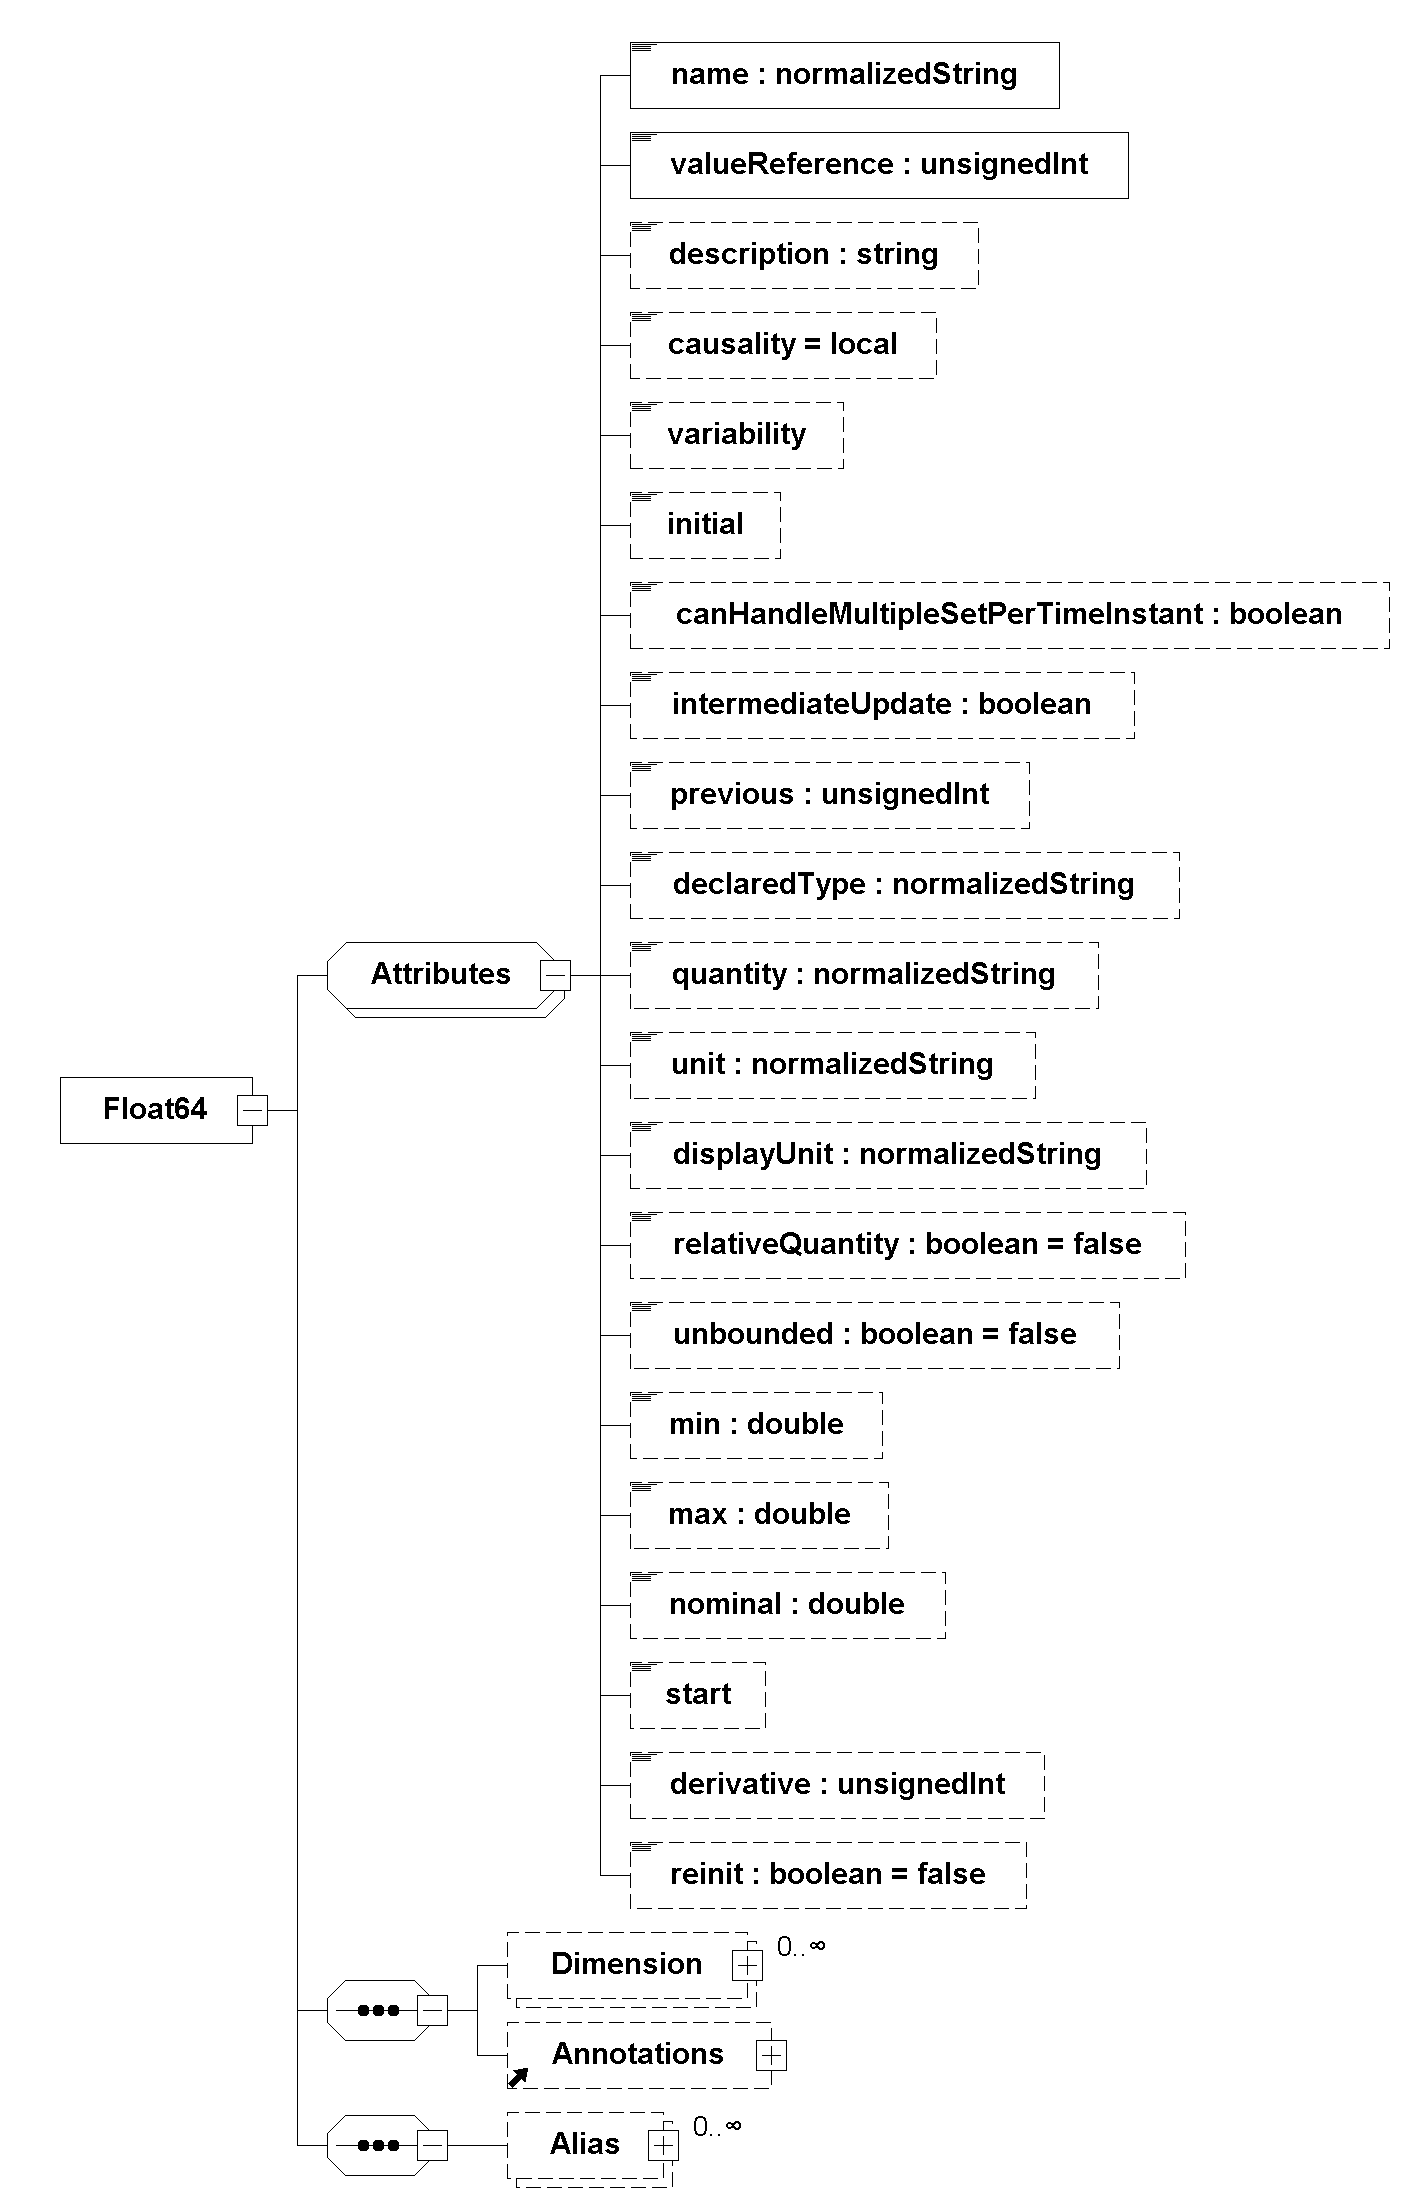
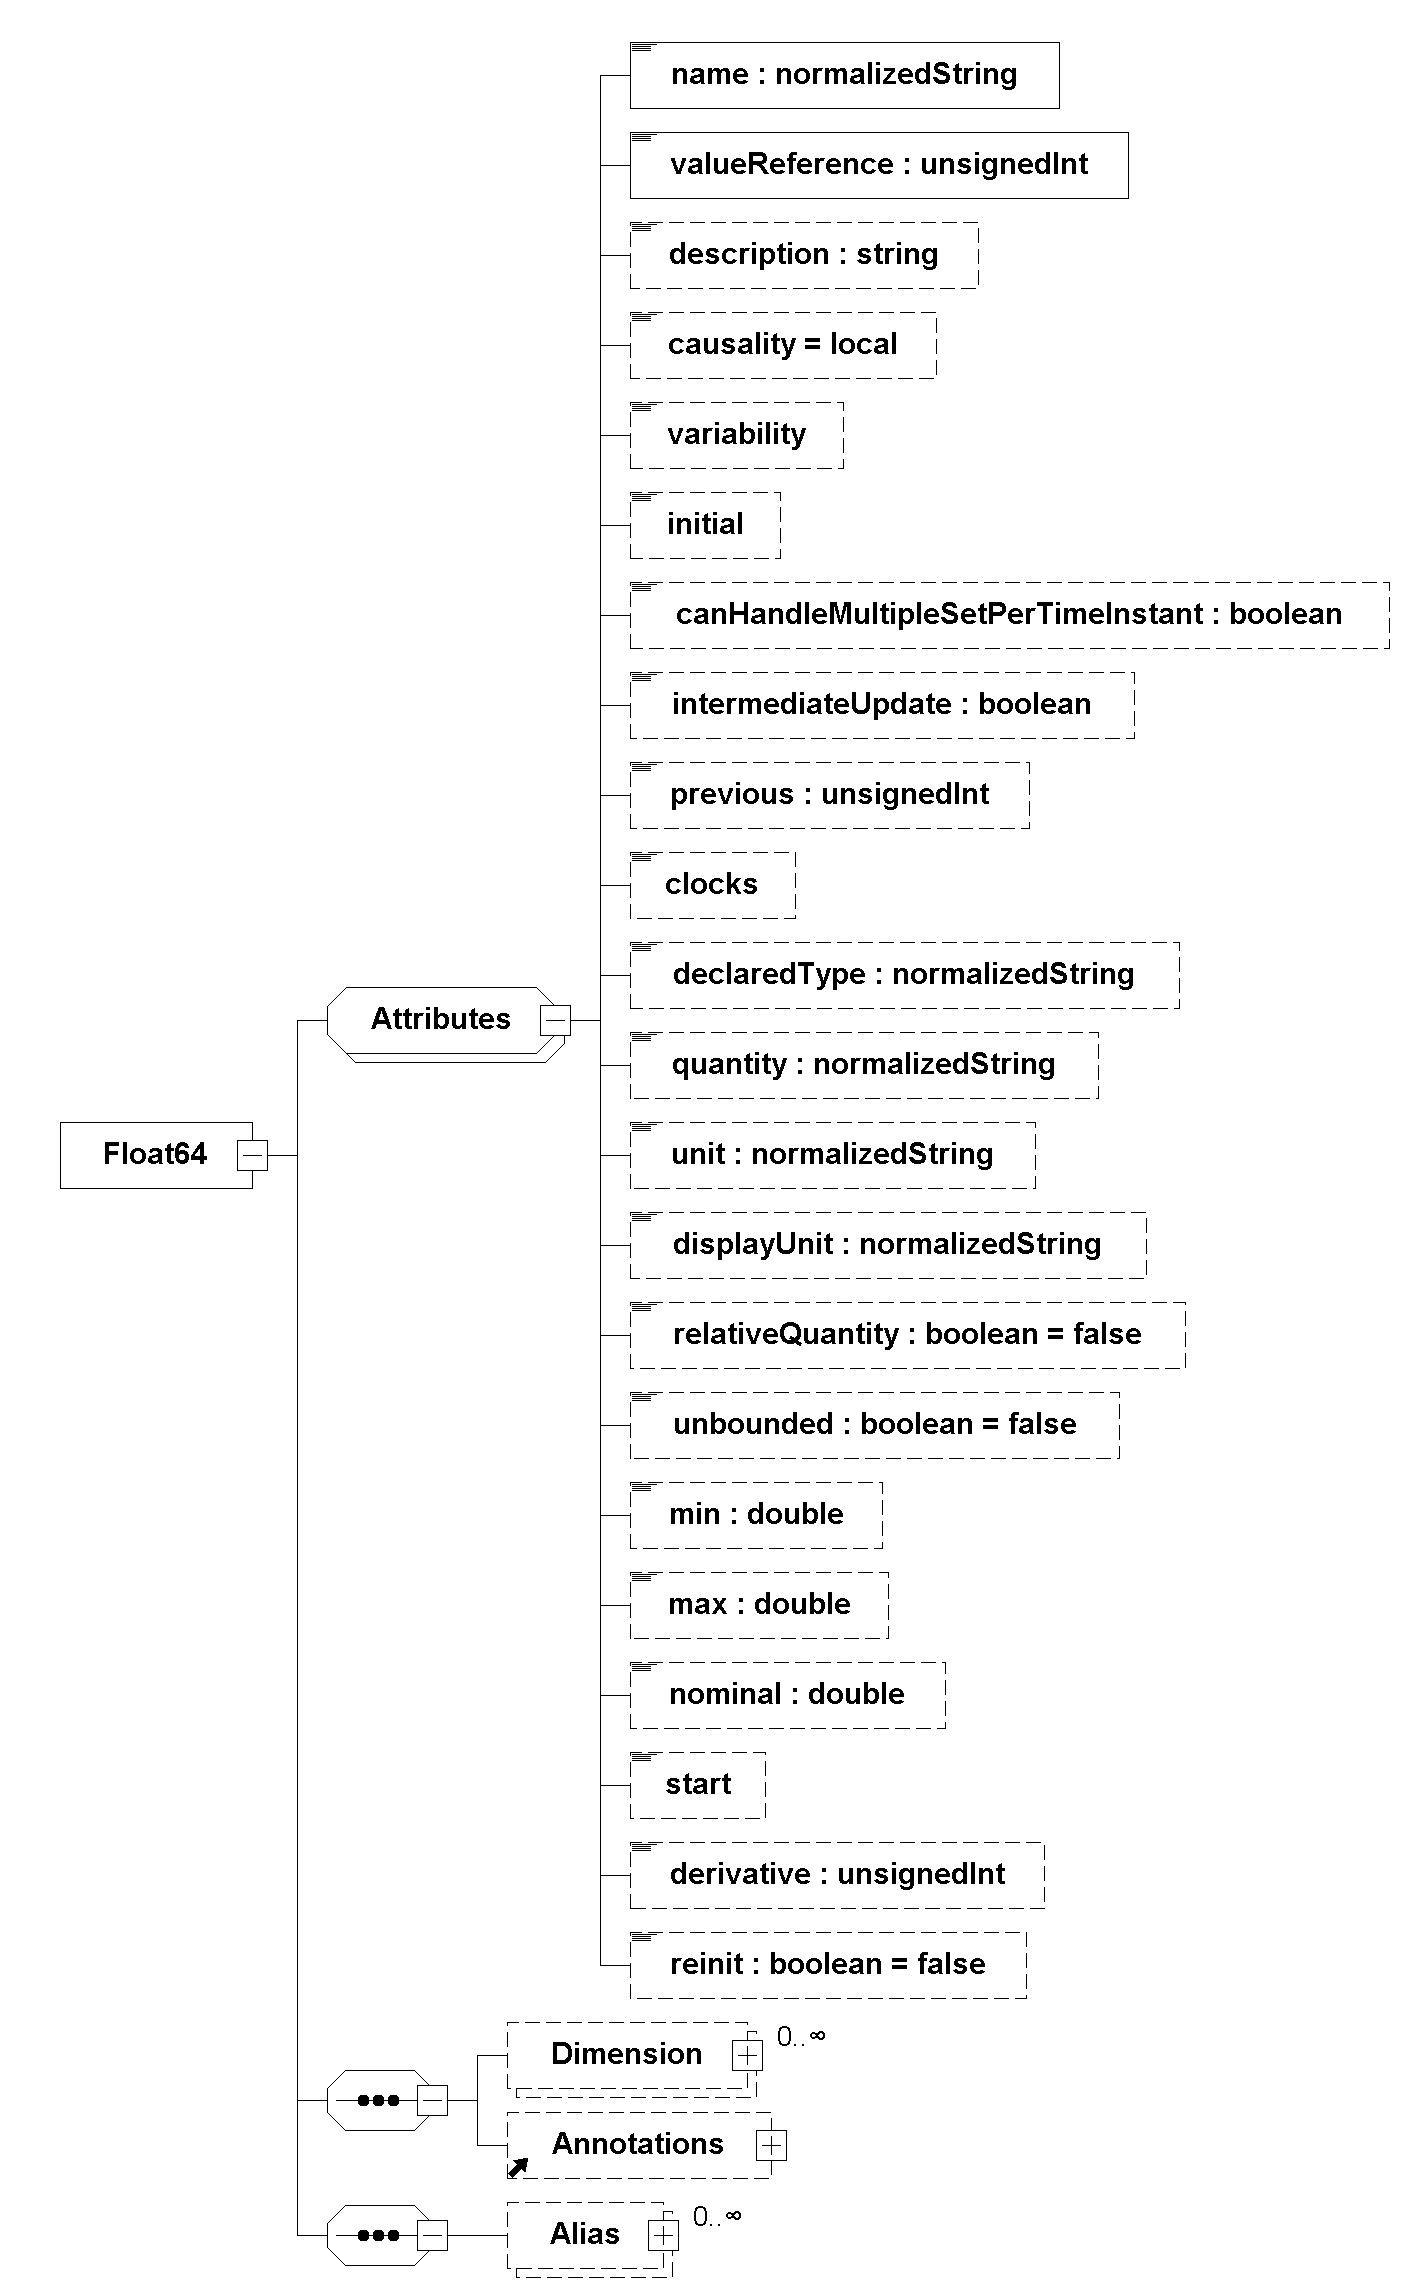
Update generated specification from fmi-standard (1ed2dfc)

diff --git a/docs/3.0-dev/index.html b/docs/3.0-dev/index.html
@@ -587,8 +587,8 @@ document.addEventListener('keydown', (event) => {
 <div id="header">
 <h1>Functional Mock-Up Interface Specification</h1>
 <div class="details">
-<span id="revnumber">version c91d4d4,</span>
-<span id="revdate">2021-03-30</span>
+<span id="revnumber">version 1ed2dfc,</span>
+<span id="revdate">2021-04-01</span>
 </div>
 <div id="toc" class="toc2">
 <div id="toctitle">Contents</div>
@@ -2975,7 +2975,7 @@ However, <a href="#get-and-set-variable-values"><code>fmi3Get{VariableType}</cod
 Before the first Clock tick, clocked variables have their initial value.</p>
 </div>
 <div class="paragraph">
-<p>The association between <a href="#clocked-variable">clocked variables</a> and their <a href="#Clock">Clocks</a> is defined by the <a href="#model-dependencies">model dependency</a> elements <a href="#ClockElement"><code>&lt;Clock&gt;</code></a>.
+<p>The association between <a href="#clocked-variable">clocked variables</a> and their <a href="#Clock">Clocks</a> is defined by the attribute <a href="#clocks"><code>clocks</code></a>.
 <a href="#clocked-variable">Clocked variables</a> can depend on multiple Clocks.
 <em>[For example, a global counter could be incremented by multiple tasks, each controlled by a different Clock.]</em></p>
 </div>
@@ -6610,12 +6610,21 @@ The default value of this attribute is <code>false</code>.</p>
 <td class="tableblock halign-left valign-top"><p class="tableblock"><code>previous</code></p></td>
 <td class="tableblock halign-left valign-top"><div class="content"><div id="previous" class="paragraph">
 <p>If present, this variable is a <a href="#ClockedState"><code>&lt;ClockedState&gt;</code></a> and this attribute is a value reference to the variable with the previous value.
-Only clocked variables (they are listed in at least one of the <a href="#clockedVariables"><code>clockedVariables</code></a> lists) may have the <a href="#previous"><code>previous</code></a> attribute.
+Only clocked variables (i.e. variables with the attribute <a href="#clocks"><code>clocks</code></a>) may have the <a href="#previous"><code>previous</code></a> attribute.
 Only variables with <a href="#variability"><code>variability == discrete</code></a> may have a previous value.</p>
 </div>
 <div class="paragraph">
 <p><em>[For example, if <code>previous == 3</code> for variable <code>8</code>, then variable <code>3</code> is the previous value of variable <code>8</code>. See also <a href="#fmi3UpdateDiscreteStates"><code>fmi3UpdateDiscreteStates</code></a>.</em>
 <em>Note: This is reverse compared to the <a href="#derivative"><code>derivative</code></a> attribute.]</em></p>
+</div></div></td>
+</tr>
+<tr>
+<td class="tableblock halign-left valign-top"><p class="tableblock"><code>clocks</code></p></td>
+<td class="tableblock halign-left valign-top"><div class="content"><div id="clocks" class="paragraph">
+<p>If present, this variable is clocked.
+The value of <a href="#clocks"><code>clocks</code></a> is a list of value references of <a href="#Clock">Clock</a> variables this variable depends on.
+Only discrete variables can have this attribute.
+<em>[More rigorous importers requiring a variable to be dependent on a single clock can reject FMUs violating this restriction.]</em></p>
 </div></div></td>
 </tr>
 </tbody>
@@ -7423,8 +7432,8 @@ The functional dependency is defined as (dependencies of variables that are fixe
 <tr>
 <td class="tableblock halign-left valign-top"><p class="tableblock"><code>ClockedState</code></p></td>
 <td class="tableblock halign-left valign-top"><p class="tableblock"><a id="ClockedState"></a>
-A <a href="#ClockedState"><code>&lt;ClockedState&gt;</code></a> is part of the discrete state of a model partition and represented by a <a href="#ClockElement">clocked</a> variable.
-To which clock or clocks it belongs is described in <a href="#ClockElement"><code>&lt;Clock&gt;</code></a>.
+A <a href="#ClockedState"><code>&lt;ClockedState&gt;</code></a> is part of the discrete state of a model partition and represented by a clocked variable.
+To which Clock or Clocks it belongs is described by the attribute <a href="#clocks"><code>clocks</code></a>.
 Each <a href="#ClockedState"><code>&lt;ClockedState&gt;</code></a> must have the attribute <a href="#previous"><code>previous</code></a> to represent the previous value of this <a href="#ClockedState"><code>&lt;ClockedState&gt;</code></a>.
 All <a href="#ClockedState">clocked states</a> must have <a href="#variability"><code>variability == discrete</code></a>.</p></td>
 </tr>
@@ -7458,21 +7467,13 @@ Ordered list of all event indicators, in other words, a list of value references
 <p class="tableblock">For Co-Simulation, elements <a href="#EventIndicator"><code>&lt;EventIndicator&gt;</code></a> are ignored.
 <em>[If an FMU supports both Model Exchange and Co-Simulation, then the <a href="#EventIndicator"><code>&lt;EventIndicator&gt;</code></a> elements might be present, since it is needed for Model Exchange.]</em></p></td>
 </tr>
-<tr>
-<td class="tableblock halign-left valign-top"><p class="tableblock"><code>Clock</code></p></td>
-<td class="tableblock halign-left valign-top"><p class="tableblock"><a id="ClockElement"></a>
-List of all clocks and their clocked variables.
-All variables referenced by these lists must have <a href="#variability"><code>variability == discrete</code></a>.
-A clocked variable my depend on multiple clocks and may therefore be listed in multiple <a href="#ClockElement"><code>&lt;Clock&gt;</code></a> elements.
-<em>[More rigorous importers requiring a variable to be dependent on a single clock can reject FMUs violating this restriction.]</em></p></td>
-</tr>
 </tbody>
 </table>
 <div class="paragraph">
-<p>Elements <a href="#Output"><code>&lt;Output&gt;</code></a>, <a href="#ContinuousStateDerivative"><code>&lt;ContinuousStateDerivative&gt;</code></a>, <a href="#ClockedState"><code>&lt;ClockedState&gt;</code></a>, <a href="#InitialUnknown"><code>&lt;InitialUnknown&gt;</code></a>, <a href="#EventIndicator"><code>&lt;EventIndicator&gt;</code></a> and <a href="#ClockElement"><code>&lt;Clock&gt;</code></a> have (partially) the following attributes:</p>
+<p>Elements <a href="#Output"><code>&lt;Output&gt;</code></a>, <a href="#ContinuousStateDerivative"><code>&lt;ContinuousStateDerivative&gt;</code></a>, <a href="#ClockedState"><code>&lt;ClockedState&gt;</code></a>, <a href="#InitialUnknown"><code>&lt;InitialUnknown&gt;</code></a>, and <a href="#EventIndicator"><code>&lt;EventIndicator&gt;</code></a> have (partially) the following attributes:</p>
 </div>
 <table id="table-output-der-initialUknown-details" class="tableblock frame-all grid-all stretch">
-<caption class="title">Table 25. <a href="#Output"><code>&lt;Output&gt;</code></a>, <a href="#ContinuousStateDerivative"><code>&lt;ContinuousStateDerivative&gt;</code></a>, <a href="#ClockedState"><code>&lt;ClockedState&gt;</code></a>, <a href="#InitialUnknown"><code>&lt;InitialUnknown&gt;</code></a>, <a href="#EventIndicator"><code>&lt;EventIndicator&gt;</code></a> and <a href="#ClockElement"><code>&lt;Clock&gt;</code></a> attribute details.</caption>
+<caption class="title">Table 25. <a href="#Output"><code>&lt;Output&gt;</code></a>, <a href="#ContinuousStateDerivative"><code>&lt;ContinuousStateDerivative&gt;</code></a>, <a href="#ClockedState"><code>&lt;ClockedState&gt;</code></a>, <a href="#InitialUnknown"><code>&lt;InitialUnknown&gt;</code></a>, and <a href="#EventIndicator"><code>&lt;EventIndicator&gt;</code></a> attribute details.</caption>
 <colgroup>
 <col style="width: 16.6666%;">
 <col style="width: 83.3334%;">
@@ -7522,11 +7523,6 @@ Otherwise, the corresponding known \({\mathbf{f}_{\mathit{known},i}}\) enters th
 <p class="tableblock"><code>=</code> <a href="#fixed"><code>fixed</code></a>: fixed factor, \({p \cdot \mathbf{v}_{\mathit{known},i}}\) where \({p}\) is an expression that is evaluated before <a href="#fmi3ExitInitializationMode"><code>fmi3ExitInitializationMode</code></a> is called.</p>
 <p class="tableblock"><code>=</code> <a href="#tunable"><code>tunable</code></a>: tunable factor, \({p \cdot \mathbf{v}_{\mathit{known},i}}\) where \({p}\) is an expression that is evaluated before <a href="#fmi3ExitInitializationMode"><code>fmi3ExitInitializationMode</code></a> is called and in <a href="#EventMode"><strong>Event Mode</strong></a> due to event handling (ME) or at a communication point (CS and SE)</p>
 <p class="tableblock"><code>=</code> <a href="#discrete"><code>discrete</code></a>: discrete factor, \({d \cdot \mathbf{v}_{\mathit{known},i}}\) where \({d}\) is an expression that is evaluated before <a href="#fmi3ExitInitializationMode"><code>fmi3ExitInitializationMode</code></a> is called and in <a href="#EventMode"><strong>Event Mode</strong></a> due to an external or internal event or at a communication point (CS and SE).</p></td>
-</tr>
-<tr>
-<td class="tableblock halign-left valign-top"><p class="tableblock"><code>clockedVariables</code></p></td>
-<td class="tableblock halign-left valign-top"><p class="tableblock"><a id="clockedVariables"></a>
-This element is only available with the <a href="#ClockElement"><code>&lt;Clock&gt;</code></a> element and is a list of value references indicating clocked variables depending on this clock.</p></td>
 </tr>
 </tbody>
 </table>
